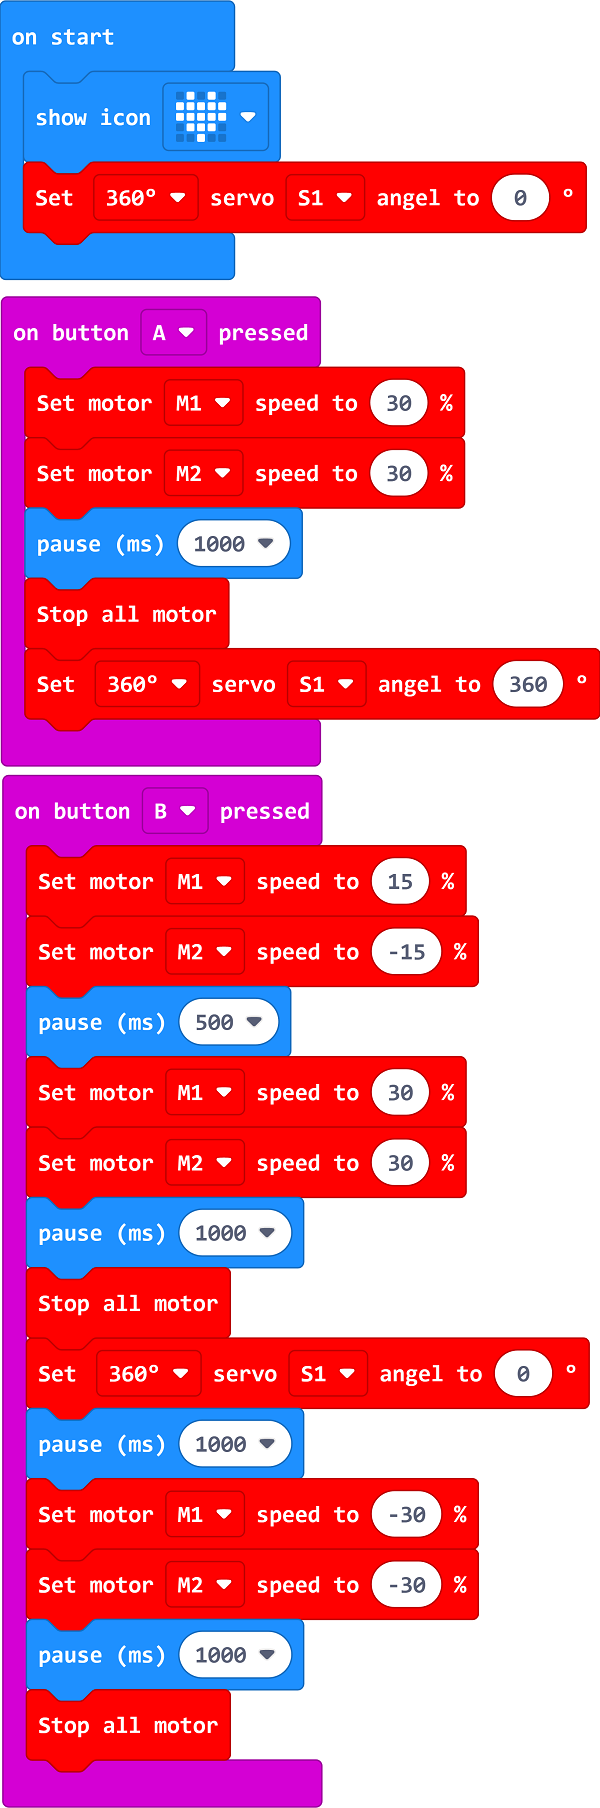
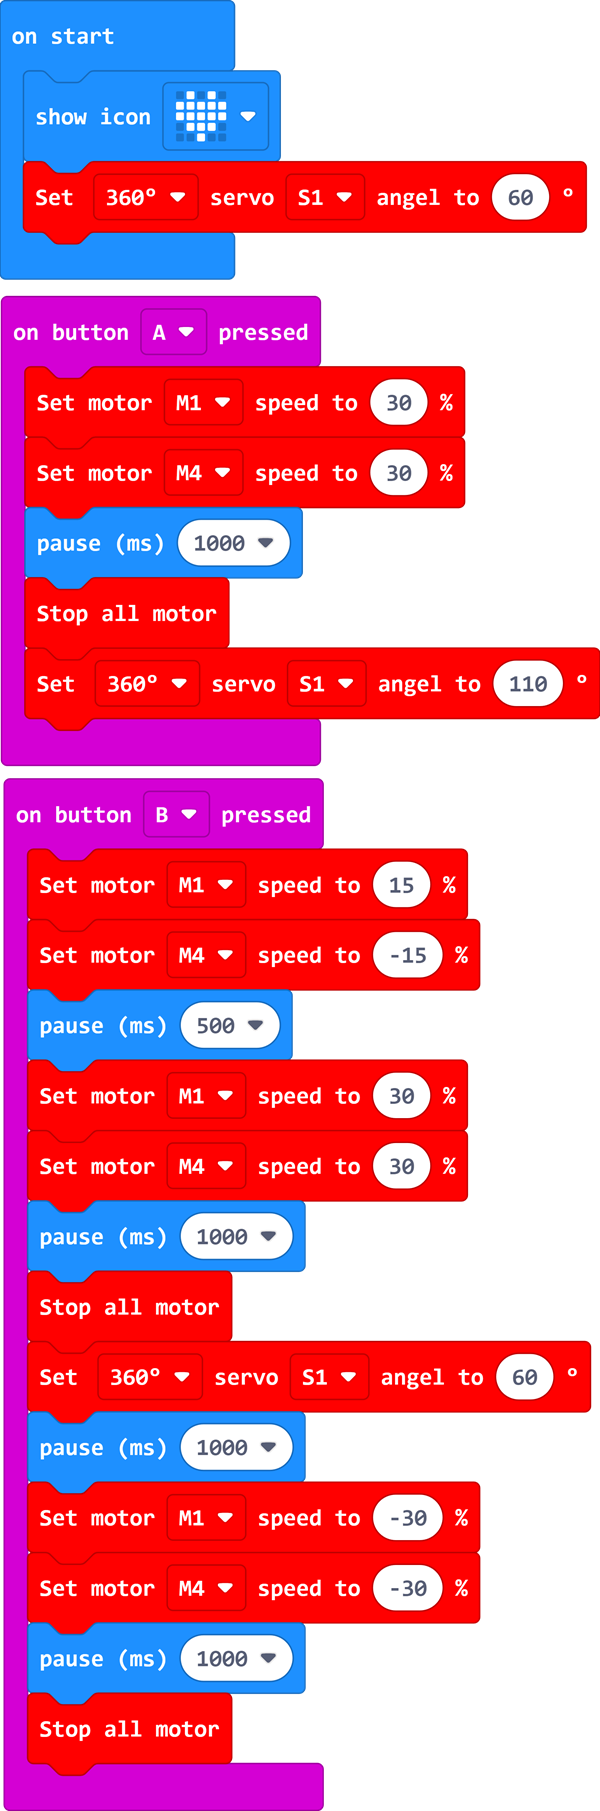
Ares: wiki

diff --git a/i18n/en/docusaurus-plugin-content-docs/current/microbit/building-blocks/nezha-inventors-kit-v2/the-forklift-1.md b/i18n/en/docusaurus-plugin-content-docs/current/microbit/building-blocks/nezha-inventors-kit-v2/the-forklift-1.md
@@ -57,7 +57,7 @@ Build a forklift truck from building blocks according to your own design.
 
 #### Examples
 
-##### Assembly Steps 
+##### Assembly Steps
 
 ![](./images/nezha-inventors-kit-v2-step-21-01.png)
 
@@ -125,7 +125,7 @@ Build a forklift truck from building blocks according to your own design.
 
 ##### Hardware Connections
 
-Connect the motors to M1, M2 and the servo to S1 on Nezha expansion board. 
+Connect the motors to M1, M2 and the servo to S1 on Nezha expansion board.
 
 ![](./images/nezha-inventors-kit-v2-case-24-02.png)
 
@@ -151,7 +151,7 @@ Code
 ![](./images/nezha-inventors-kit-v2-case-21-07.png)
 
 
-Link: [https://makecode.microbit.org/_KPYeCC2Ds2Jd](https://makecode.microbit.org/_KPYeCC2Ds2Jd)
+Link: [https://makecode.microbit.org/_hPfKtjcHtgcv](https://makecode.microbit.org/_hPfKtjcHtgcv)
 
 You may download it directly below:
 
@@ -163,7 +163,7 @@ You may download it directly below:
     }}
 >
     <iframe
-        src="https://makecode.microbit.org/_KPYeCC2Ds2Jd"
+        src="https://makecode.microbit.org/_hPfKtjcHtgcv"
         frameborder="0"
         sandbox="allow-popups allow-forms allow-scripts allow-same-origin"
         style={{
@@ -176,7 +176,7 @@ You may download it directly below:
 
 
 
-### Demonstration 
+### Demonstration
 
 >Group presentation to try making a remote control forklift.
 

diff --git a/docs/microbit/interesting-case/microbit-smart-weather-station-kit/reading-tips.md b/docs/microbit/interesting-case/microbit-smart-weather-station-kit/reading-tips.md
@@ -21,4 +21,5 @@ sidebar_label: 阅读提示
 3. 《快速入门指南》
 4. 《关于智能气象站套装》
 5. 《案例库》
+
 建议用户首先观看《安全第一》，再查看《开箱自检》核对产品完整性，然后阅读《快速入门指南》快速上手体验产品的使用。获取详细的产品信息和体验更多的案例，请查看《关于智能气象站套装》和《案例库》。

diff --git a/docs/microbit/interesting-case/microbit-smart-weather-station-kit/关于智能气象站套装/产品清单.md b/docs/microbit/interesting-case/microbit-smart-weather-station-kit/关于智能气象站套装/产品清单.md
@@ -6,14 +6,23 @@ sidebar_label: 产品清单
 # 产品清单
 
 micro:bit × 1（选配）
+
 IOT:bit × 1
+
 风速传感器 × 1
+
 灰尘传感器 × 1
+
 温湿度传感器 × 1
+
 紫外线传感器 × 1
+
 OLED显示屏 × 1
+
 R3090铆钉 × 10
+
 R4080铆钉 × 20
+
 USB数据线 × 1
 
 ![](./images/smart-weather-station-kit-packing-list-01.png)

diff --git a/docs/microbit/faq/faq-09.md b/docs/microbit/faq/faq-09.md
@@ -1,0 +1,5 @@
+# FAQ 09
+
+## Q: 关于studio软件使用的3D模型文件下载路径。
+
+A：请点击此链接[https://www.elecfreaks.com/download/studio-3d-model-file.io](https://www.elecfreaks.com/download/studio-3d-model-file.io)下载模型文件.

diff --git a/docs/microbit/interesting-case/microbit-smart-weather-station-kit/关于智能气象站套装/硬件介绍.md b/docs/microbit/interesting-case/microbit-smart-weather-station-kit/关于智能气象站套装/硬件介绍.md
@@ -2,3 +2,31 @@
 sidebar_position: 4
 sidebar_label: 硬件介绍
 ---
+
+# 硬件介绍
+
+## micro:bit
+
+
+
+## IOT:bit
+
+
+
+## 风速传感器
+
+
+
+## 灰尘传感器
+
+
+
+## 温湿度传感器
+
+
+
+## 紫外线传感器
+
+
+
+## OLED显示屏

diff --git a/docs/microbit/interesting-case/microbit-smart-weather-station-kit/关于智能气象站套装/软件积木块介绍.md b/docs/microbit/interesting-case/microbit-smart-weather-station-kit/关于智能气象站套装/软件积木块介绍.md
@@ -1,4 +1,4 @@
 ---
 sidebar_position: 6
-sidebar_label: 添加软件库
+sidebar_label: 软件积木块介绍
 ---
